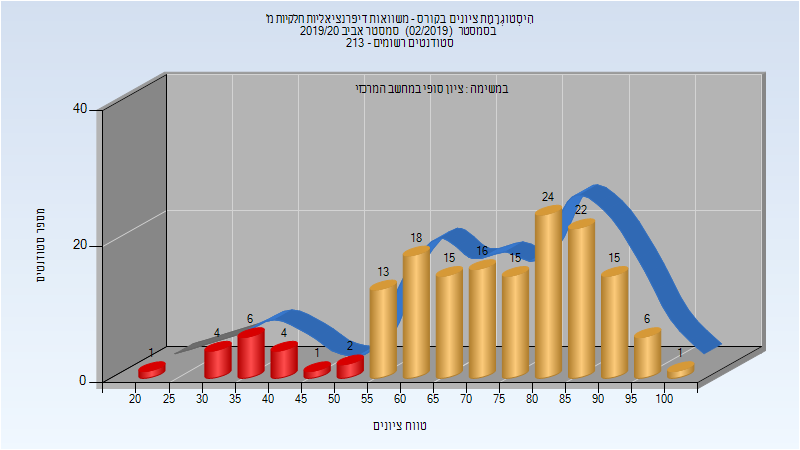
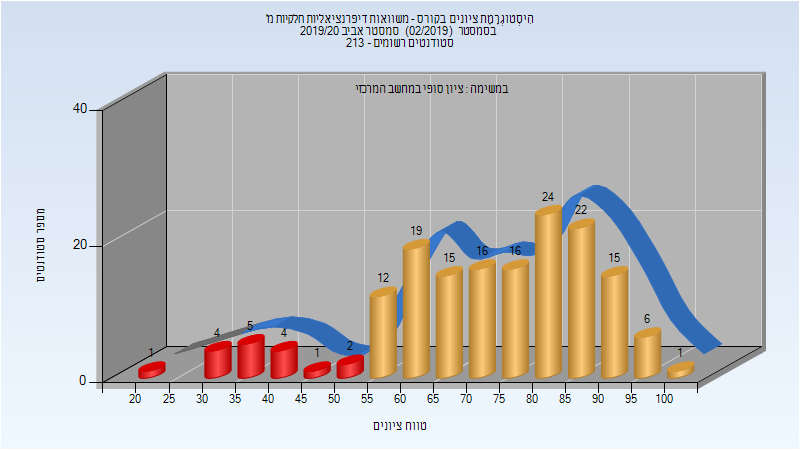
Deploy michael-maltsev/technion-histograms to github.com/michael-maltsev/technion-histograms.git:gh-pages

diff --git a/034035/index.html b/034035/index.html
@@ -1077,11 +1077,15 @@
 <td>מרצה</td>
 </tr>
 <tr>
+<td>דיסקין דוד</td>
+<td>מתרגל - עם הרשאות מרצה אחראי</td>
+</tr>
+<tr>
 <td>תחאוחו אנדי</td>
 <td>מתרגל - עם הרשאות מרצה אחראי</td>
 </tr>
 <tr>
-<td>אייל אמנון</td>
+<td>קייסר דוד</td>
 <td>מתרגל - עם הרשאות מרצה אחראי</td>
 </tr>
 <tr>
@@ -1089,11 +1093,7 @@
 <td>מתרגל - עם הרשאות מרצה אחראי</td>
 </tr>
 <tr>
-<td>דיסקין דוד</td>
-<td>מתרגל - עם הרשאות מרצה אחראי</td>
-</tr>
-<tr>
-<td>קייסר דוד</td>
+<td>אייל אמנון</td>
 <td>מתרגל - עם הרשאות מרצה אחראי</td>
 </tr>
 </tbody>

diff --git a/324992/index.html b/324992/index.html
@@ -201,11 +201,7 @@
 <td>מרצה - אחראי מקצוע</td>
 </tr>
 <tr>
-<td>איסמן ליסה</td>
-<td>סגל מנהלי - עם הרשאות מרצה אחראי</td>
-</tr>
-<tr>
-<td>בורנשטיין יעל</td>
+<td>הראל אילנה</td>
 <td>סגל מנהלי - עם הרשאות מרצה אחראי</td>
 </tr>
 <tr>
@@ -213,7 +209,11 @@
 <td>סגל מנהלי - עם הרשאות מרצה אחראי</td>
 </tr>
 <tr>
-<td>הראל אילנה</td>
+<td>איסמן ליסה</td>
+<td>סגל מנהלי - עם הרשאות מרצה אחראי</td>
+</tr>
+<tr>
+<td>בורנשטיין יעל</td>
 <td>סגל מנהלי - עם הרשאות מרצה אחראי</td>
 </tr>
 </tbody>

diff --git a/104228/index.html b/104228/index.html
@@ -1697,12 +1697,12 @@
 <tbody>
 <tr>
 <td>66</td>
-<td>41/25</td>
-<td>62</td>
+<td>42/24</td>
+<td>64</td>
 <td>22</td>
 <td>94</td>
-<td>59.015</td>
-<td>61</td>
+<td>59.136</td>
+<td>61.5</td>
 </tr>
 </tbody>
 </table>
@@ -1727,7 +1727,7 @@
 <td>73</td>
 <td>23</td>
 <td>95</td>
-<td>62.167</td>
+<td>62.273</td>
 <td>63</td>
 </tr>
 </tbody>
@@ -1749,11 +1749,11 @@
 <tbody>
 <tr>
 <td>163</td>
-<td>145/18</td>
-<td>89</td>
+<td>146/17</td>
+<td>90</td>
 <td>23</td>
 <td>100</td>
-<td>72.423</td>
+<td>72.699</td>
 <td>75</td>
 </tr>
 </tbody>

diff --git a/034033/index.html b/034033/index.html
@@ -965,10 +965,6 @@
 <td>מרצה - אחראי מקצוע</td>
 </tr>
 <tr>
-<td>שירוקי יצחק</td>
-<td>מתרגל - עם הרשאות מרצה אחראי</td>
-</tr>
-<tr>
 <td>שקטרוט מקס</td>
 <td>מתרגל - עם הרשאות מרצה אחראי</td>
 </tr>
@@ -978,6 +974,10 @@
 </tr>
 <tr>
 <td>בויקו יבגני</td>
+<td>מתרגל - עם הרשאות מרצה אחראי</td>
+</tr>
+<tr>
+<td>שירוקי יצחק</td>
 <td>מתרגל - עם הרשאות מרצה אחראי</td>
 </tr>
 </tbody>

diff --git a/034042/index.html b/034042/index.html
@@ -825,7 +825,7 @@
 <td>מרצה - אחראי מקצוע</td>
 </tr>
 <tr>
-<td>אוסטרומוחוב נדיה</td>
+<td>שאוליאן הדר</td>
 <td>מתרגל - עם הרשאות מרצה אחראי</td>
 </tr>
 <tr>
@@ -833,7 +833,7 @@
 <td>מתרגל - עם הרשאות מרצה אחראי</td>
 </tr>
 <tr>
-<td>שאוליאן הדר</td>
+<td>אוסטרומוחוב נדיה</td>
 <td>מתרגל - עם הרשאות מרצה אחראי</td>
 </tr>
 </tbody>

diff --git a/034028/index.html b/034028/index.html
@@ -1181,15 +1181,15 @@
 <td>מרצה</td>
 </tr>
 <tr>
-<td>חן שגיא</td>
-<td>מתרגל - עם הרשאות מרצה אחראי</td>
-</tr>
-<tr>
 <td>כץ שמואל</td>
 <td>מתרגל - עם הרשאות מרצה אחראי</td>
 </tr>
 <tr>
 <td>גזאל מג'די</td>
+<td>מתרגל - עם הרשאות מרצה אחראי</td>
+</tr>
+<tr>
+<td>חן שגיא</td>
 <td>מתרגל - עם הרשאות מרצה אחראי</td>
 </tr>
 <tr>

diff --git a/034029/index.html b/034029/index.html
@@ -1148,11 +1148,11 @@
 <td>מתרגל - עם הרשאות מרצה אחראי</td>
 </tr>
 <tr>
-<td>ניצן עידו</td>
+<td>שומינוב מאור</td>
 <td>מתרגל - עם הרשאות מרצה אחראי</td>
 </tr>
 <tr>
-<td>שומינוב מאור</td>
+<td>ניצן עידו</td>
 <td>מתרגל - עם הרשאות מרצה אחראי</td>
 </tr>
 <tr>

diff --git a/034043/index.html b/034043/index.html
@@ -543,11 +543,11 @@
 <td>מרצה - אחראי מקצוע</td>
 </tr>
 <tr>
-<td>דמצ'נקו איגור</td>
+<td>פוקשנסקי מיכאל</td>
 <td></td>
 </tr>
 <tr>
-<td>פוקשנסקי מיכאל</td>
+<td>דמצ'נקו איגור</td>
 <td></td>
 </tr>
 <tr>

diff --git a/104228/README.md b/104228/README.md
@@ -534,7 +534,7 @@
 
 | סטודנטים | עברו/נכשלו | אחוז עוברים | ציון מינימלי | ציון מקסימלי | ממוצע | חציון |
 | ---- | ---- | ---- | ---- | ---- | ---- | ---- |
-| 66 | 41/25 | 62 | 22 | 94 | 59.015 | 61 |
+| 66 | 42/24 | 64 | 22 | 94 | 59.136 | 61.5 |
 
 ### סופי מועד ב'
 
@@ -542,7 +542,7 @@
 
 | סטודנטים | עברו/נכשלו | אחוז עוברים | ציון מינימלי | ציון מקסימלי | ממוצע | חציון |
 | ---- | ---- | ---- | ---- | ---- | ---- | ---- |
-| 66 | 48/18 | 73 | 23 | 95 | 62.167 | 63 |
+| 66 | 48/18 | 73 | 23 | 95 | 62.273 | 63 |
 
 ### סופי
 
@@ -550,7 +550,7 @@
 
 | סטודנטים | עברו/נכשלו | אחוז עוברים | ציון מינימלי | ציון מקסימלי | ממוצע | חציון |
 | ---- | ---- | ---- | ---- | ---- | ---- | ---- |
-| 163 | 145/18 | 89 | 23 | 100 | 72.423 | 75 |
+| 163 | 146/17 | 90 | 23 | 100 | 72.699 | 75 |
 
 ## קיץ 2020
 

diff --git a/034035/README.md b/034035/README.md
@@ -333,11 +333,11 @@
 | ---- | ---- |
 | ואן האוט רנה | מרצה - אחראי מקצוע |
 | טרטקובסקי לאוניד | מרצה |
-| תחאוחו אנדי | מתרגל - עם הרשאות מרצה אחראי |
-| אייל אמנון | מתרגל - עם הרשאות מרצה אחראי |
-| רונן-מנוקובס רונה | מתרגל - עם הרשאות מרצה אחראי |
 | דיסקין דוד | מתרגל - עם הרשאות מרצה אחראי |
+| תחאוחו אנדי | מתרגל - עם הרשאות מרצה אחראי |
 | קייסר דוד | מתרגל - עם הרשאות מרצה אחראי |
+| רונן-מנוקובס רונה | מתרגל - עם הרשאות מרצה אחראי |
+| אייל אמנון | מתרגל - עם הרשאות מרצה אחראי |
 
 ### מבחן מועד א'
 

diff --git a/324992/README.md b/324992/README.md
@@ -57,10 +57,10 @@
 | איש סגל | תפקיד |
 | ---- | ---- |
 | רפאל דינה | מרצה - אחראי מקצוע |
+| הראל אילנה | סגל מנהלי - עם הרשאות מרצה אחראי |
+| בן ענת רוחמה | סגל מנהלי - עם הרשאות מרצה אחראי |
 | איסמן ליסה | סגל מנהלי - עם הרשאות מרצה אחראי |
 | בורנשטיין יעל | סגל מנהלי - עם הרשאות מרצה אחראי |
-| בן ענת רוחמה | סגל מנהלי - עם הרשאות מרצה אחראי |
-| הראל אילנה | סגל מנהלי - עם הרשאות מרצה אחראי |
 
 ### סופי מועד א'
 

diff --git a/034042/README.md b/034042/README.md
@@ -257,9 +257,9 @@
 | איש סגל | תפקיד |
 | ---- | ---- |
 | דרימר נתאי | מרצה - אחראי מקצוע |
-| אוסטרומוחוב נדיה | מתרגל - עם הרשאות מרצה אחראי |
-| ריז'נסקי אורן | מתרגל - עם הרשאות מרצה אחראי |
 | שאוליאן הדר | מתרגל - עם הרשאות מרצה אחראי |
+| ריז'נסקי אורן | מתרגל - עם הרשאות מרצה אחראי |
+| אוסטרומוחוב נדיה | מתרגל - עם הרשאות מרצה אחראי |
 
 ### מבחן מועד א'
 
